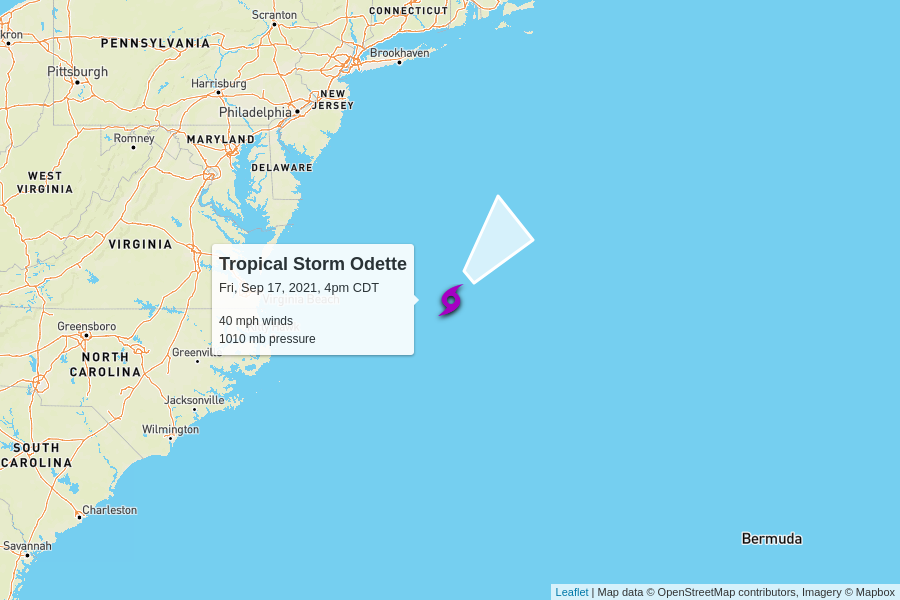
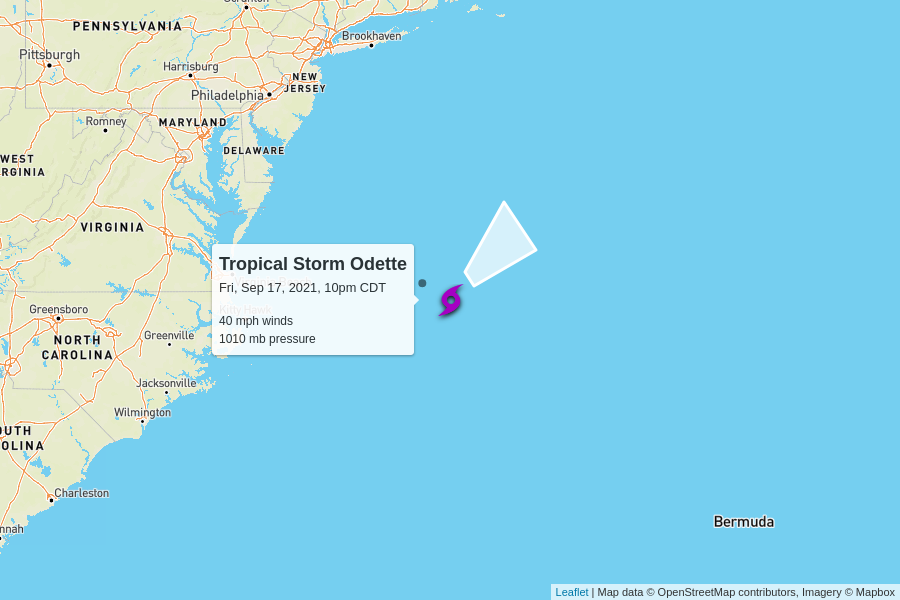
automatic update

diff --git a/docs/index.html b/docs/index.html
@@ -100,7 +100,7 @@
         <td colspan="6" class="storm category-0" >
           <h2>
             Tropical Storm Odette
-            <p class="updated">last updated <span data-time>2021-09-17T21:00:00.000Z</span></p>
+            <p class="updated">last updated <span data-time>2021-09-18T03:00:00.000Z</span></p>
           </h2>
         </td>
       </tr>
@@ -118,9 +118,9 @@
         <td>40 mph</td>
         <td>1010 mb</td>
         <td>
-          15 mph to the northeast
+          10 mph to the northeast
           <br/>
-          <span style="display: inline-block; font-size: 1.5em; transform: rotate(45deg);">↑</span>
+          <span style="display: inline-block; font-size: 1.5em; transform: rotate(50deg);">↑</span>
         </td>
         <td><a href="https://raw.githubusercontent.com/mgwalker/atlantic-hurricanes/main/data/csv/AL152021.csv">AL152021.csv</a></td>
         <td><a href="https://www.nhc.noaa.gov/archive/2021/ODETTE.shtml?">NHC advisories</a></td>
